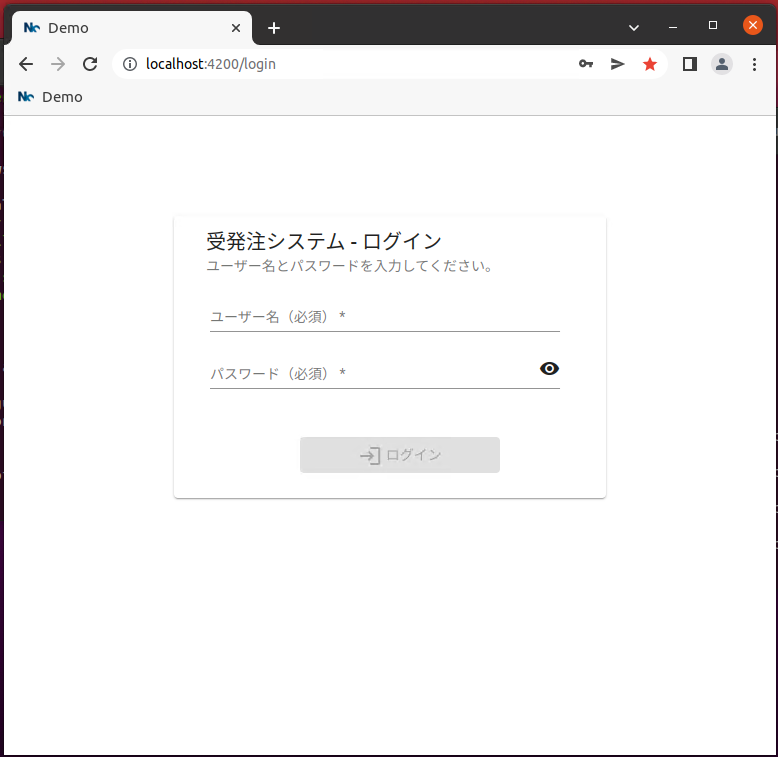
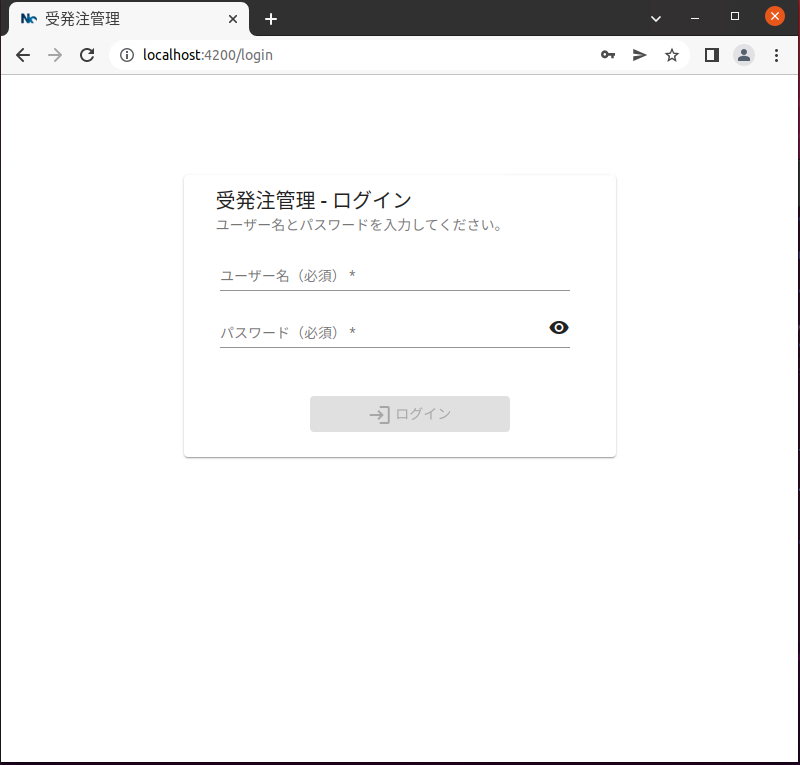
3rd step commit

diff --git a/apps/demo/src/app/users/user-edit/user-edit.component.html b/apps/demo/src/app/users/user-edit/user-edit.component.html
@@ -1,16 +1,25 @@
 <div class="main-container">
 
-  <!-- 見出し -->
+  <!-- 見出し 
   <h1>アカウント編集</h1>
-
+  -->
+  
   <!-- 編集エリア -->
   <form novalidate>
     <div class="form-box">
       <div id="contents" *ngIf="user">
 
+        <!-- id -->
+        <div>
+          <mat-form-field class="item-box" appearance="standard">
+            <mat-label>ID（編集不可）</mat-label>
+            <input class="item-input" matInput disabled="" name="id" [(ngModel)]="user.id">
+          </mat-form-field>
+        </div>
+
         <!-- company -->
         <div>
-          <mat-form-field class="item-box">
+          <mat-form-field class="item-box" appearance="standard">
             <mat-label>会社名（必須）</mat-label>
             <input class="item-input" matInput name="company" required [(ngModel)]="user.company">
             <mat-error>必須項目なので必ず入力してください。</mat-error>
@@ -19,7 +28,7 @@
 
         <!-- telephone -->
         <div>
-          <mat-form-field class="item-box">
+          <mat-form-field class="item-box" appearance="standard">
             <mat-label>電話番号（必須）</mat-label>
             <input class="item-input" matInput name="telephone" required [(ngModel)]="user.telephone">
             <mat-error>必須項目なので必ず入力してください。</mat-error>
@@ -28,7 +37,7 @@
 
         <!-- email -->
         <div>
-          <mat-form-field class="item-box">
+          <mat-form-field class="item-box" appearance="standard">
             <mat-label>メールアドレス（必須）</mat-label>
             <input class="item-input" matInput name="email" required [(ngModel)]="user.email">
             <mat-error>必須項目なので必ず入力してください。</mat-error>
@@ -37,23 +46,15 @@
 
         <!-- address -->
         <div>
-          <mat-form-field class="item-box">
+          <mat-form-field class="item-box" appearance="standard">
             <mat-label>住所</mat-label>
             <input class="item-input" matInput name="address" [(ngModel)]="user.address">
           </mat-form-field>
         </div>
 
-        <!-- id -->
-        <div>
-          <mat-form-field class="item-box">
-            <mat-label>法人番号</mat-label>
-            <input class="item-input" matInput name="id" [(ngModel)]="user.id">
-          </mat-form-field>
-        </div>
-
         <!-- account -->
         <div>
-          <mat-form-field class="item-box">
+          <mat-form-field class="item-box" appearance="standard">
             <mat-label>アカウント（必須）</mat-label>
             <input class="item-input" matInput name="account" required [(ngModel)]="user.account">
           </mat-form-field>
@@ -61,7 +62,7 @@
 
         <!-- password -->
         <div>
-          <mat-form-field class="item-box">
+          <mat-form-field class="item-box" appearance="standard">
             <mat-label>パスワード（必須）</mat-label>
             <input class="item-input" matInput name="password" 
               [type]="blnPassVisible ? 'password' : 'text'"  required [(ngModel)]="user.password">

diff --git a/apps/api/src/app/users/users.service.ts b/apps/api/src/app/users/users.service.ts
@@ -8,20 +8,25 @@ import { parse } from 'csv-parse/sync'
 
 /*** CSVから取得に変更 ***
 const UserItemList: UserItem[] = [
-  { company: "札幌生魚店", email: "pn-060-8588@example.com", telephone: "011-231-4111", 
-    address: "北海道札幌市中央区北3条西6丁目",    id: "0100-01-123456", 
+  { id: "0001",
+    company: "札幌生魚店", email: "pn-060-8588@example.com", telephone: "011-231-4111", 
+    address: "北海道札幌市中央区北3条西6丁目",  
     account: "pn-060-8588", password: "011-231-4111" },
-  { company: "青森生花店", email: "pn-030-8570@example.com", telephone: "017-722-1111", 
-    address: "青森県青森市長島一丁目1-1",         id: "0100-01-123456", 
+  { id: "0002",
+    company: "青森生花店", email: "pn-030-8570@example.com", telephone: "017-722-1111", 
+    address: "青森県青森市長島一丁目1-1", 
     account: "pn-030-8570", password: "017-722-1111" },
-  { company: "盛岡青果屋", email: "pn-020-8570@example.com", telephone: "019-651-3111", 
-    address: "岩手県盛岡市内丸10番1号",           id: "0100-01-123456", 
+  { id: "0003",
+    company: "盛岡青果屋", email: "pn-020-8570@example.com", telephone: "019-651-3111", 
+    address: "岩手県盛岡市内丸10番1号", 
     account: "pn-020-8570", password: "019-651-3111" },
-  { company: "仙台精肉店", email: "pn-980-8570@example.com", telephone: "022-211-2111", 
-    address: "宮城県仙台市青葉区本町3丁目8番1号", id: "0100-01-123456", 
+  { id: "0004",
+    company: "仙台精肉店", email: "pn-980-8570@example.com", telephone: "022-211-2111", 
+    address: "宮城県仙台市青葉区本町3丁目8番1号",
     account: "pn-980-8570", password: "022-211-2111" },
-  { company: "秋田豆腐屋", email: "pn-010-8570@example.com", telephone: "018-860-1111",
-    address: "秋田県秋田市山王四丁目１－１",      id: "0100-01-123456", 
+  { id: "0005",
+    company: "秋田豆腐屋", email: "pn-010-8570@example.com", telephone: "018-860-1111",
+    address: "秋田県秋田市山王四丁目１－１", 
     account: "pn-010-8570", password: "018-860-1111" },
 ];
 ***/
@@ -47,11 +52,11 @@ export class UsersService {
     for (const record of records) {
       // console.log(record);
 
-      if( record['company'] != undefined
+      if( record['id'] != undefined
+       && record['company'] != undefined
        && record['email'] != undefined
        && record['telephone'] != undefined
        && record['address'] != undefined
-       && record['id'] != undefined
        && record['account'] != undefined
        && record['password'] != undefined) {
           // console.log('record match');
@@ -68,9 +73,10 @@ export class UsersService {
     return this.users;
   }
 
-  getUser(company: string): UserItem {
+  getUser(id: string): UserItem {
+    console.log('getUser:id=', id);
     this.loadUsers();
-    return this.users.find(value => value.company == company )    
+    return this.users.find(value => value.id == id )    
   }
 
 

diff --git a/apps/demo/src/app/users/user-list/user-list.component.html b/apps/demo/src/app/users/user-list/user-list.component.html
@@ -1,7 +1,8 @@
 <div class="main-container">
 
-  <!-- 見出し -->
+  <!-- 見出し
   <h1>アカウント一覧</h1>
+  -->
 
   <!-- 表示エリア -->
   <div fxLayout="column">
@@ -21,11 +22,17 @@
         <!--- Note that these columns can be defined in any order.
             The actual rendered columns are set as a property on the row definition" -->
 
+        <!-- id -->
+        <ng-container matColumnDef="id">
+          <th mat-header-cell *matHeaderCellDef mat-sort-header>ID</th>
+          <td mat-cell *matCellDef="let element">{{ element.id }}</td>
+        </ng-container>
+  
         <!-- company -->
         <ng-container matColumnDef="company">
           <th mat-header-cell *matHeaderCellDef mat-sort-header>会社名</th>
           <td mat-cell matTooltip="編集を行います。"
-            *matCellDef="let element"><a [routerLink]="['/users/user-edit', element.company]">{{ element.company }}</a></td>
+            *matCellDef="let element"><a [routerLink]="['/users/user-edit', element.id]">{{ element.company }}</a></td>
         </ng-container>
   
         <!-- telephone -->

diff --git a/apps/demo/src/app/users/user-list/user-list.component.ts b/apps/demo/src/app/users/user-list/user-list.component.ts
@@ -18,7 +18,7 @@ import { AlertDialogComponent } from "../../shared/dialog/alert-dialog.component
   styleUrls: ['./user-list.component.css']
 })
 export class UserListComponent implements OnInit, OnDestroy {
-  displayedColumns: string[] = ["company", "email", "telephone", "address"];
+  displayedColumns: string[] = ["id", "company", "email", "telephone", "address"];
   dataSource = new MatTableDataSource<UserItem>([]);
   
   constructor(
@@ -32,6 +32,7 @@ export class UserListComponent implements OnInit, OnDestroy {
   ngOnInit(): void {
     // header,footer表示
     this.header.show();
+    this.header.setTitle("受発注管理 - アカウント一覧");
     this.footer.show();
 
     this.service.getUsers().subscribe((responce) => {

diff --git a/apps/demo/src/app/users/user-edit/user-edit.component.ts b/apps/demo/src/app/users/user-edit/user-edit.component.ts
@@ -30,13 +30,14 @@ export class UserEditComponent implements OnInit, OnDestroy {
   ngOnInit(): void {
     // header,footer表示
     this.header.show();
+    this.header.setTitle("受発注管理 - アカウント編集");
     this.footer.show();
   
-    const company = this.route.snapshot.paramMap.get('company');
-    console.log('company:', company);
+    const id = this.route.snapshot.paramMap.get('id');
+    console.log('id:', id);
 
-    if (company) {
-      this.service.getUser(company)
+    if (id) {
+      this.service.getUser(id)
       .subscribe(result => this.user = result);
     }
   }

diff --git a/apps/demo/src/app/shared/header/header.service.ts b/apps/demo/src/app/shared/header/header.service.ts
@@ -4,14 +4,21 @@ import { Injectable } from '@angular/core';
   providedIn: 'root'
 })
 export class HeaderService {
- visible: boolean;
+  visible: boolean;
+  title: string;
+
  constructor() {
    this.visible = true;
- }
- hide() {
-   this.visible = false;
- }
- show() {
-   this.visible = true;
- }
+   this.title = "受発注管理";
+  }
+
+  hide() {
+    this.visible = false;
+  }
+  show() {
+    this.visible = true;
+  }
+  setTitle(title: string) {
+    this.title = title;
+  }
 }

diff --git a/apps/demo/src/app/login/login.component.html b/apps/demo/src/app/login/login.component.html
@@ -1,7 +1,7 @@
 <div class="main-container">
   <mat-card class="card-box">
     <mat-card-header>
-      <mat-card-title>受発注システム - ログイン</mat-card-title>
+      <mat-card-title>受発注管理 - ログイン</mat-card-title>
       <mat-card-subtitle>ユーザー名とパスワードを入力してください。</mat-card-subtitle>
     </mat-card-header>
     <mat-card-content>

diff --git a/apps/api/src/app/users/users.controller.ts b/apps/api/src/app/users/users.controller.ts
@@ -13,9 +13,9 @@ export class UsersController {
     return this.usersService.getUsers();
   }
 
-  @Get(':company')
+  @Get(':id')
   @HttpCode(HttpStatus.OK) 
-  getUser(@Param('company') company: string): UserItem {
-    return this.usersService.getUser(company)
+  getUser(@Param('id') id: string): UserItem {
+    return this.usersService.getUser(id)
   }
 }

diff --git a/apps/demo/src/app/app-routing.module.ts b/apps/demo/src/app/app-routing.module.ts
@@ -9,7 +9,7 @@ const routes: Routes = [
   { path: '', redirectTo: 'login', pathMatch: 'full' },
   { path: 'login', component: LoginComponent },
   { path: 'users/user-list', component: UserListComponent },
-  { path: 'users/user-edit/:company', component: UserEditComponent }
+  { path: 'users/user-edit/:id', component: UserEditComponent }
 ];
 
 @NgModule({

diff --git a/apps/demo/src/app/shared/header/header.component.ts b/apps/demo/src/app/shared/header/header.component.ts
@@ -3,6 +3,7 @@ import { ActivatedRoute, Router } from '@angular/router';
 
 import { HeaderService } from './header.service';
 
+
 @Component({
   selector: 'nx-demo-header',
   templateUrl: './header.component.html',
@@ -16,4 +17,5 @@ export class HeaderComponent implements OnInit {
     public header: HeaderService) { }
 
   ngOnInit(): void { }
+
 }

diff --git a/apps/demo/src/app/users/users.service.ts b/apps/demo/src/app/users/users.service.ts
@@ -15,8 +15,8 @@ export class UsersService {
     return this.http.get<UserItem[]>('/api/users');
   }
 
-  getUser(company: string | null): Observable<UserItem> {
-     return this.http.get<UserItem>(`/api/users/${company}`);
+  getUser(id: string | null): Observable<UserItem> {
+     return this.http.get<UserItem>(`/api/users/${id}`);
   }
 
 /***

diff --git a/apps/demo/src/index.html b/apps/demo/src/index.html
@@ -1,8 +1,8 @@
 <!DOCTYPE html>
-<html lang="en">
+<html lang="ja">
   <head>
     <meta charset="utf-8" />
-    <title>Demo</title>
+    <title>受発注管理</title>
     <base href="/" />
     <meta name="viewport" content="width=device-width, initial-scale=1" />
     <link rel="icon" type="image/x-icon" href="favicon.ico" />
